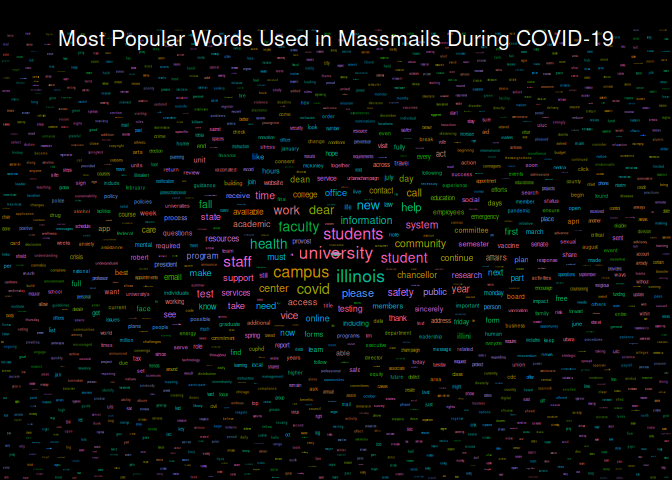
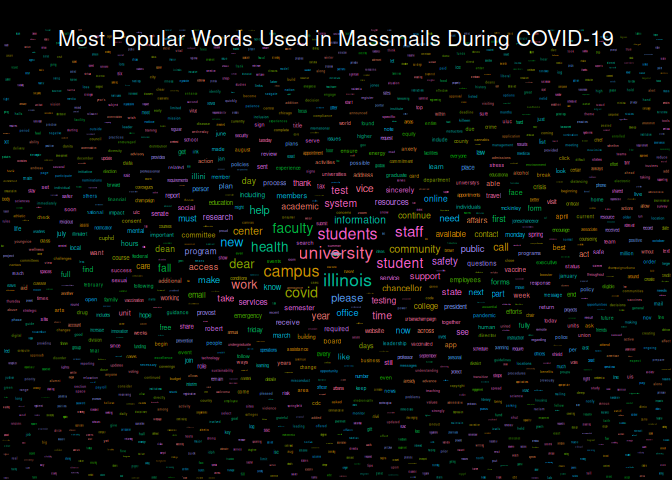
Re-build README.Rmd and Graphs

Changed region(s): [[0.0, 0.0625, 1.0, 1.0]]

diff --git a/README.md b/README.md
@@ -18,7 +18,7 @@ The archive may be viewed here:
 
 <https://massmail.illinois.edu/massmailArchive>
 
-Data has **2002** observations and **7** variables:
+Data has **2003** observations and **7** variables:
 
 - `datetime`: Date and time when the email was sent, as an ISO 8601
   timestamp carrying the Urbana-Champaign offset,
@@ -218,16 +218,16 @@ head(most_popular_words, 10) %>%
 
 | word        | freq |
 |:------------|-----:|
-| university  | 2781 |
-| students    | 2262 |
-| campus      | 1974 |
-| illinois    | 1961 |
-| student     | 1442 |
+| university  | 2783 |
+| students    | 2263 |
+| campus      | 1975 |
+| illinois    | 1962 |
+| student     | 1443 |
 | faculty     | 1282 |
 | health      | 1211 |
 | community   | 1189 |
 | information | 1159 |
-| staff       | 1124 |
+| staff       | 1128 |
 
 #### Wordcloud
 
